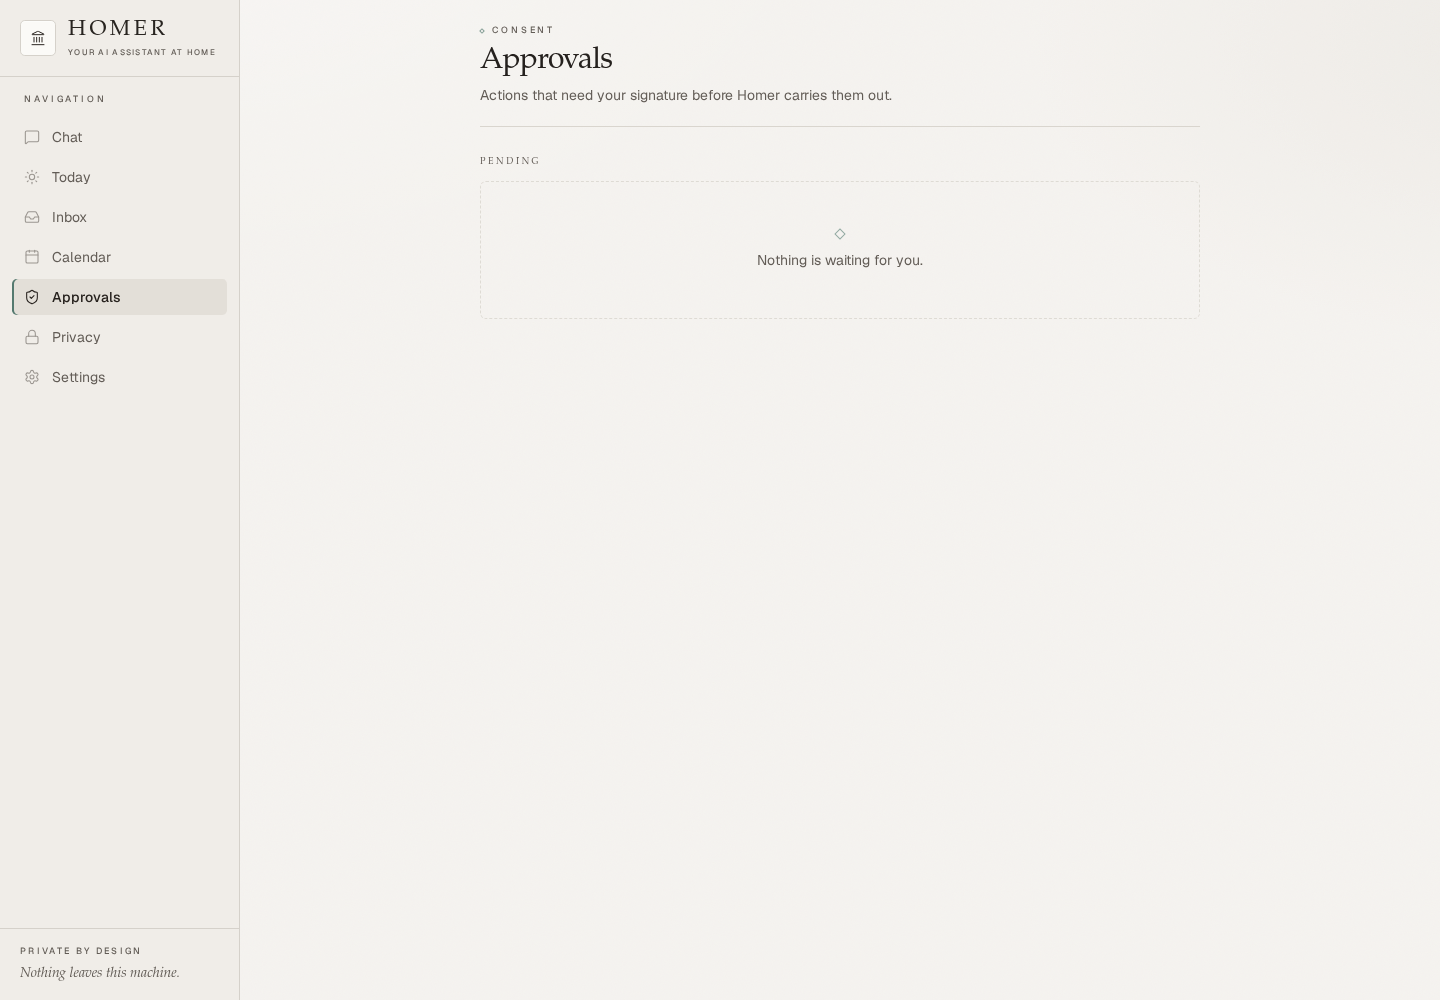
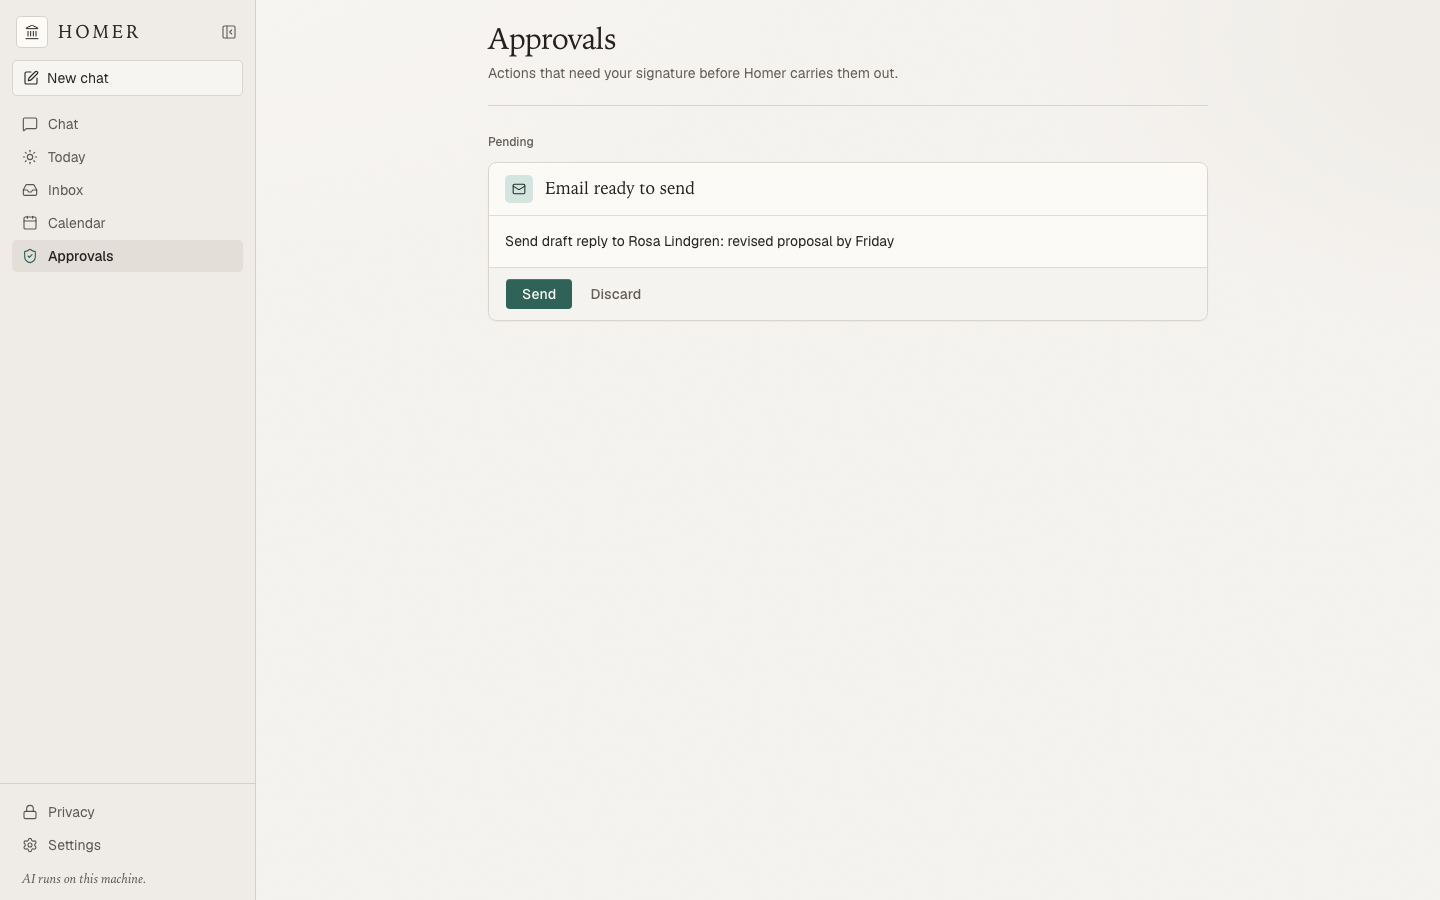
docs: retake UI previews with the current sidebar line

diff --git a/docs/ui-preview/index.html b/docs/ui-preview/index.html
@@ -63,10 +63,10 @@
   <body>
     <h1>Homer</h1>
     <p>
-      Captured from <code>make preview</code> against a throwaway
-      <code>HOMER_HOME</code> with the scheduler off and no Ollama model loaded.
-      Pages are empty because there is no mail, calendar or model, but the shell,
-      navigation, typography and surfaces are all live.
+      Captured at 1440x900 against the Google simulator with fictional demo mail and
+      calendar, a throwaway <code>HOMER_HOME</code>, the scheduler off and no Ollama
+      model loaded. The chat shots show the empty state because the model is not
+      running.
     </p>
     <div class="grid">
       <figure class="wide">
